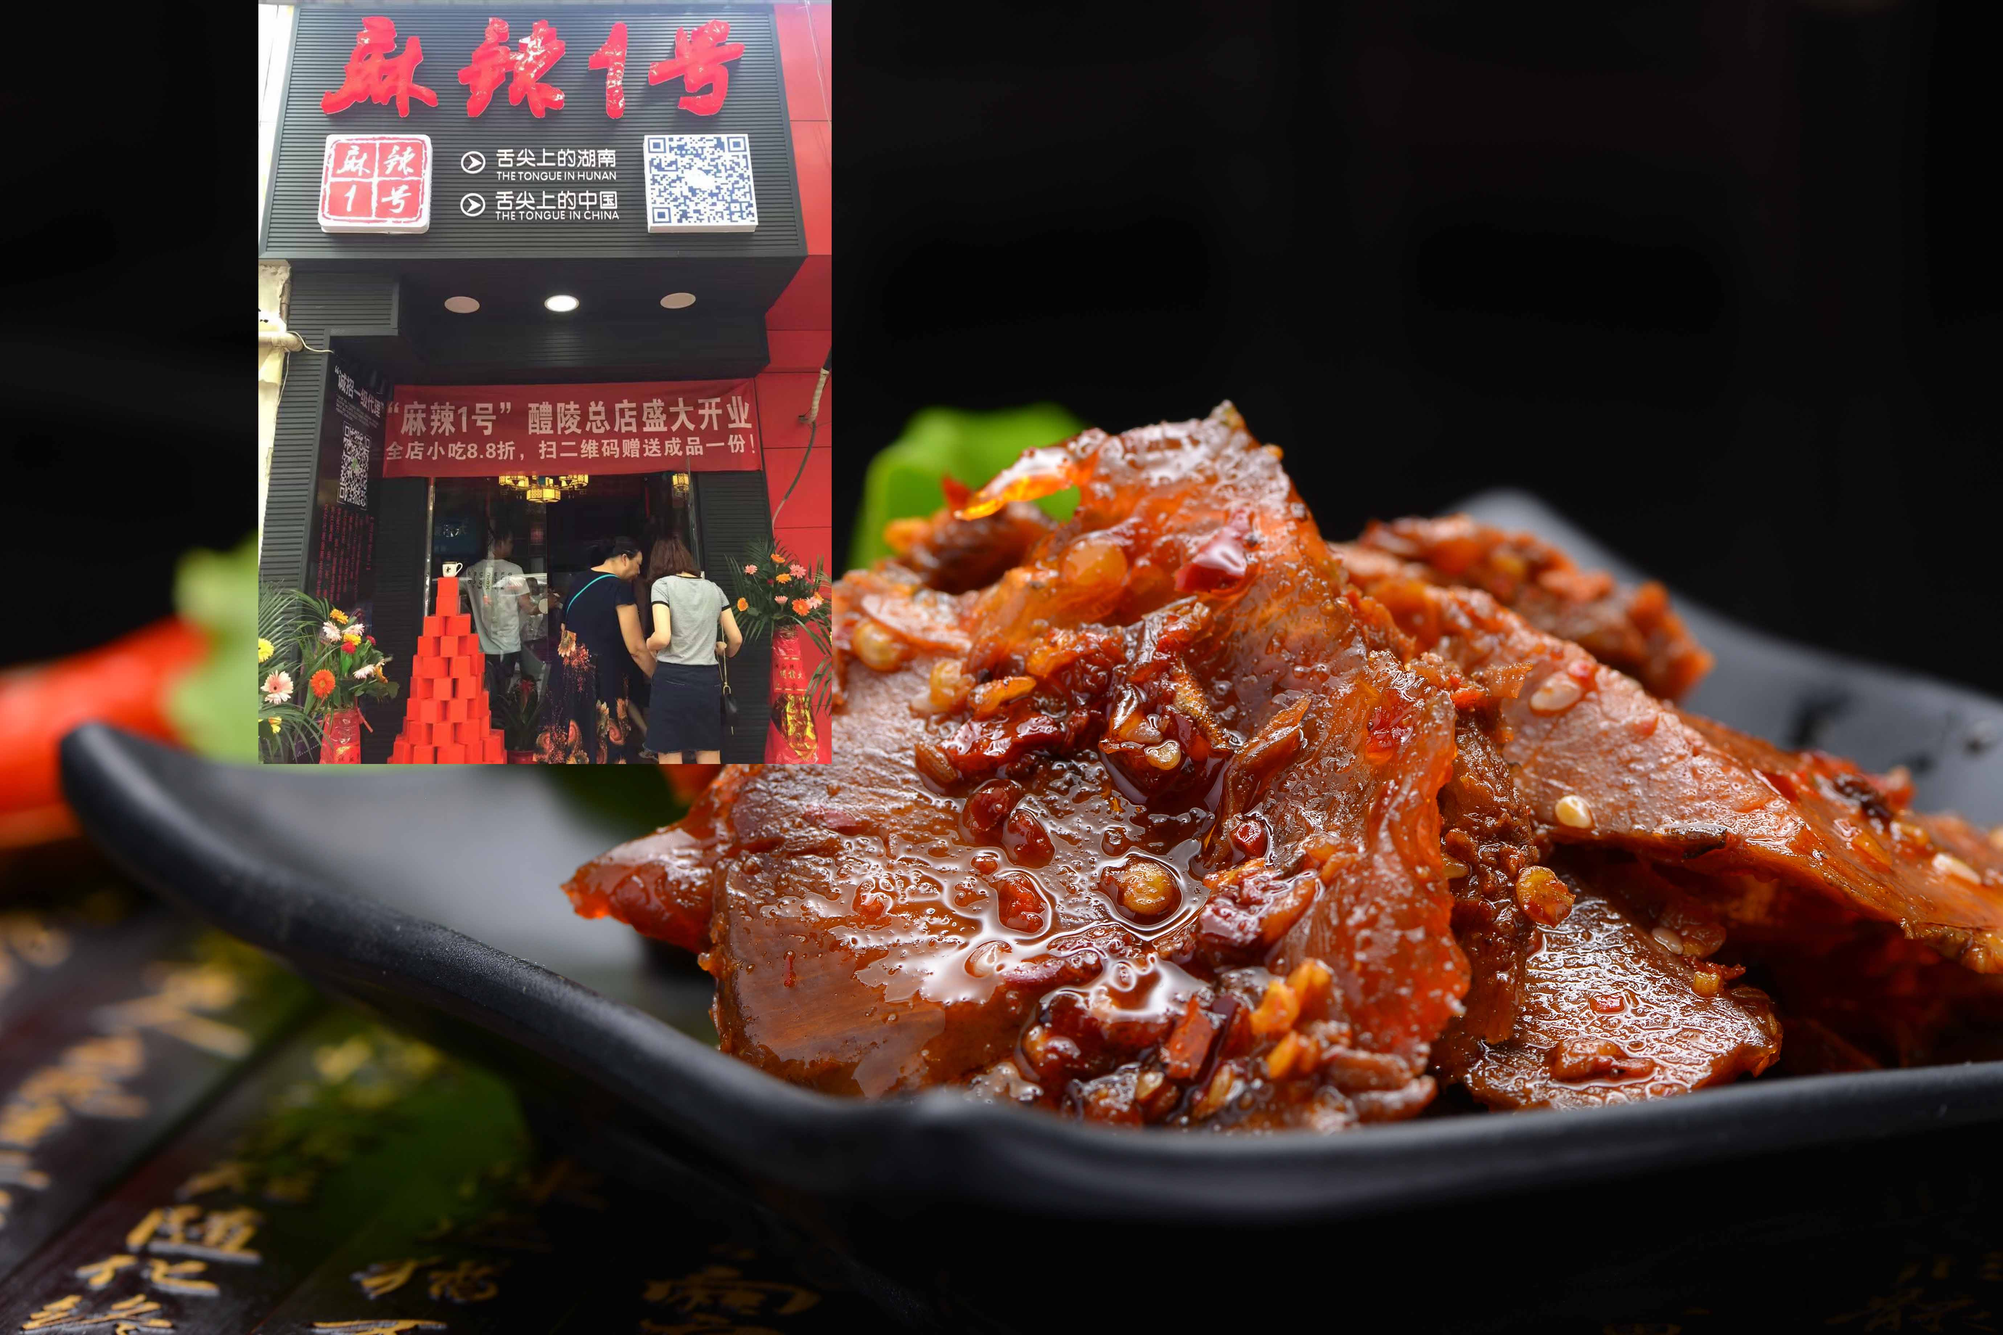
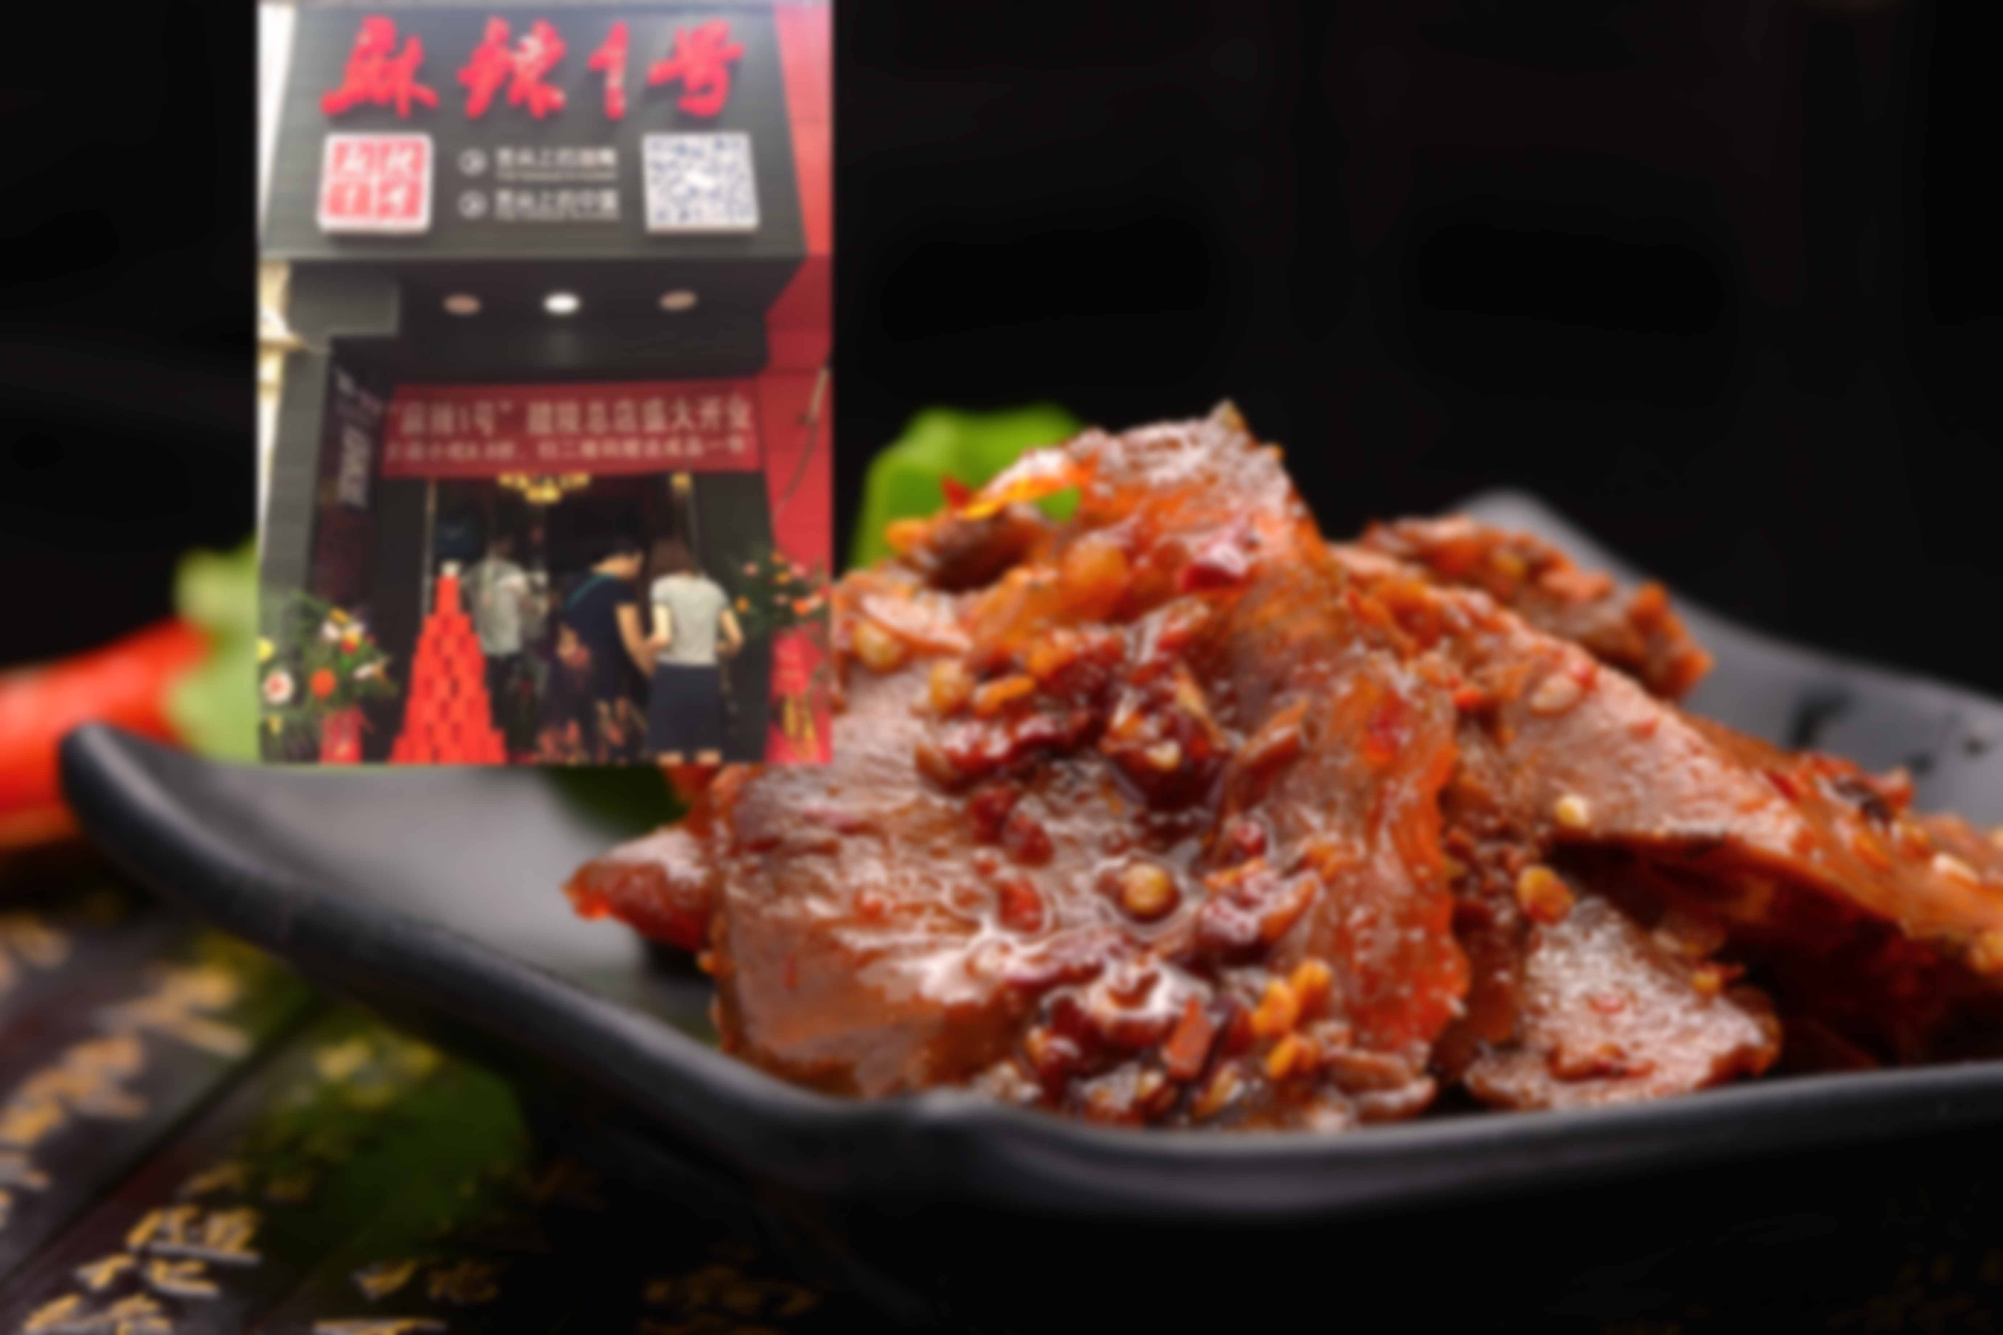
删除不必要的图片 并且 减小图片尺寸

diff --git a/jm.html b/jm.html
@@ -59,98 +59,12 @@
             </div>
             <img src="img/jm1.jpg" class="jm_img">
                 <img src="img/jm2.png" class="jm_img">
-                    <img src="img/jm3.png" class="jm_img">
-                        <img src="img/jm4.png" class="jm_img">
-                            <img src="img/jm5.png" class="jm_img">
-                                <img src="img/jm6.png" class="jm_img">
-                                    <div class="showstage7">
-                                        <form action="" method="post">
-                                            <div>
-                                                <label for="userName">姓名</label>
-                                                <input type="text" name="username" id="userName" placeholder="请输入姓名" maxlength="15" />
-                                            </div>
-                                            <div>
-                                                <label for="cellphone">手机</label>
-                                                <input type="text" name="cellphone" id="cellphone" placeholder="请输入手机号码" maxlength="11" />
-                                            </div>
-                                            <div class="clearfix" id="proBox">
-                                                <span id="dizhi">地址</span>
-                                                <select id="pro">
-                                                    <option value="0" selected >所在省</option>
-                                                </select>
-                                                <select id="city">
-                                                    <option value="0" selected >所在市</option>
-                                                </select>
-                                            </div>
-                                            <div>
-                                                <label class="label foruserId" for="userId">身份证号码</label>
-                                                <div>
-                                                    <input type="text" name="userId" id="userId" placeholder="请输入身份证号码" maxlength="18" />
-                                                </div>
-                                            </div>
-                                            <div class="clearfix">
-                                                <label class="label foruserPic" for="">身份证照片</label>
-                                                <div class="clearfix">
-                                                    <div id="idPicShowO">
-                                                        <input type="file" accept="image/*" name="idPicHeads" id="idPicHeads" />
-                                                        <div id="zhengmian">正面</div>
-                                                    </div>
-                                                    <div id="idPicShowT">
-                                                        <input type="file" accept="image/*" name="idPicTails" id="idPicTails" />
-                                                        <div id="fanmian">反面</div>
-                                                    </div>
-                                                </div>
-                                            </div>
-                                            <div class="clearfix" id="storeNum">
-                                                <label class="label formiandian" for="">是否有店面</label>
-                                                <div class="clearfix">
-                                                    <div class="clearfix istore-y">
-                                                        <span class="istore-y comselect" id="store" style="border:0;"></span>
-                                                        <span class="istore-y">是</span>
-                                                    </div>
-                                                    <div class="clearfix istore-n">
-                                                        <span class="istore-n" id="noStore"></span>
-                                                        <span class="istore-n">否</span>
-                                                    </div>
-                                                </div>
-                                            </div>
-                                            <div class="clearfix" id="StoreArea">
-                                                <label class="label" for="">经营面积</label>
-                                                <input type="text" name="acreage" id="acreage"  placeholder="请输入面积" maxlength="5" />
-                                                <div>
-                                                    <span>m</span>
-                                                    <span id="pingf">2</span>
-                                                </div>
-                                            </div>
-                                            <div id="add">
-                                                <label  class="label" for="address">门店地址</label>
-                                                <input type="text" name="address" id="address" placeholder="请输入门店地址" maxlength="50"/>
-                                            </div>
-                                            <div class="clearfix" id="addPic">
-                                                <label  class="label" for="">上传门店照片</label>
-                                                <div class="storePicShowBox">
-                                                    <div id="storePicShow">
-                                                        <span>添加照片</span>
-                                                        <input type="file" name="storePic" id="storePic"  />
-                                                    </div>
-                                                </div>
-                                            </div>
-                                            <div class="clearfix" id="buLi">
-                                                <label  class="label" for="">营业执照</label>
-                                                <div id="buLiShow" class="clearfix">
-                                                    <span>添加照片</span>
-                                                    <input type="file" name="businessLicence" id="businessLicence"  />
-                                                </div>
-                                                <br />
-                                            </div>
-                                            <div class="clearfix">
-                                                <label  class="label" for="message">留言内容</label>
-                                                <textarea name="message" id="message" placeholder="请输入留言内容"></textarea>
-                                            </div>
-                                            <div id="qu">
-                                                <div id="subMit">提交</div>
-                                            </div>
-                                        </form>
+            <img src="img/jm3.png" class="jm_img">
+            <img src="img/jm4.png" class="jm_img">
+                    <img src="img/jm5.png" class="jm_img">
+                        <img src="img/jm6.png" class="jm_img">
+                                    <div class="showstage8">
+                                        <font style="color:white;line-height=350px;font-size:60px;font-weight=bold;text-align: center;">如需加盟请联系我们 13873330466</font>
                                     </div>
         </div>
         <div class="footer">
@@ -170,7 +84,7 @@
                 <p class="title">联系我们</p>
                 <p>总部地址：湖南麻辣一号食品有限公司</p>
                 <p>电话：13873330466</p>
-                <p class="copyright">Copyright Right @ 2012-2025 mala1hao.cn Powered By 湖南麻辣一号食品有限公司</p>
+                <p class="copyright">Copyright Right @ 2012-2025 malayihao.com.cn Powered By 湖南麻辣一号食品有限公司</p>
             </div>
         </div>
         <div class="aside">

diff --git a/join.html b/join.html
@@ -90,91 +90,8 @@
 				<img src="img/meitiyunying.png">
 			</div>
 		</div>
-		<div class="showbox">
-			<p>
-				岗位职责:<br>
-1. 参与产品前期的需求调研及产品规划构思与讨论，根据产品经理要求制作设计方案；<br>
-2. 主导PC、手机web、app产品设计风格，控制相关创意工作的出品质量；<br>
-3. 设计界面原型、交互方案，并输出相关文档；<br>
-4. 根据用户反馈结果不断优化用户体验。<br>
-任职资格：<br>
-1. 具备iOS、Android平台产品的工作经验和快速学习能力，熟练掌握专业的设计和原型开发工具，如Photoshop，Axure，Visio，Illustrator等；<br>
-2. 具备优秀的逻辑思维能力，对互联网产品可用性及用户研究有深入认识；<br>
-3. 从事交互设计工作1年以上，有成功的设计作品和产品案例；<br>
-4. 良好的沟通能力和团队协作精神，能承受高强度的工作压力<br>
-5. 请随简历附上代表作品或相关链接。<br>
+		
 
-
-			</p>
-			<p>
-				岗位职责：<br>
-1. 设计所负责的产品模块的后台技术框架和实现方案；<br>
-2. 进行日常开发工作，负责产品需求的实施，遵守开发规范，保证开发质量和上线时间；<br>
-3. 解决存在的问题，提升开发效率；<br>
-4. 改进框架，基础架构，持续优化服务。<br>
-任职资格：<br>
-1.  3年以上PHP开发经验，熟练掌握PHP面向对象编程, 善于分析业务需求并融入对象设计；<br>
-2. 熟悉中大型 LNMP 技术栈，有分布式存储和缓存设计和使用经验；<br>
-3. 熟练使用Yii/CI等一种或多种PHP开发框架；良好的MySQL存储、索引设计和SQL查询优化经验<br>
-4. 有海量数据、高并发、业务复杂型互联网产品经验者优先；<br>
-5. 对数据产品开发有浓厚兴趣者，责任心强、学习能力强者优先<br>
-
-
-			</p>
-			<p>
-				岗位职责：<br>
-1. 负责互联网自媒体平台（微信、微博、贴吧等）的日常运营及推广工作，提供优质、有趣、好玩的传播性内容、规划，力求平台的互通及用户导流工作；<br>
-2. 配合公司/品牌整体营销规划执行相关线上线下推广、策划活动；<br>
-3. 分析平台运营数据，在数据指导下有目的性的优化其运营手段，提高增粉速度及质量，增加用户黏性及分享欲望；<br>
-4. 收集用户反馈，分析用户行为及需求，可提出建设性意见和创新型想法；<br>
-任职资格：<br>
-1.大专以上学历，专业不限，传播、营销类专业优先；<br>
-2.热爱新媒体行业和自媒体运营，对微信、微博等平台较为熟悉，对移动互联网发展潮流高度关注，思维活跃、有创意；<br>
-3. 有自媒体运营经验，嗅觉敏锐，对行业动态敏感；<br>
-4. 对工作极具热情，积极主动，创造性包容性俱佳，具备团队精神<br>
-5. 学习能力强，工作踏实；<br>
-			</p>
-		</div>
-		<div class="showbox">
-			<div class="show">
-				<img src="img/meijie.png">
-			</div>
-			<div class="show">
-				<img src="img/pingmian.png">
-			</div>
-		</div>
-		<div class="showbox">
-			<p>
-				岗位职责：<br>
-1．与互联网媒体保持良好的沟通，有效地开发、维护网站、社区、意见领袖博客关系；<br>
-2．梳理媒介投放管理体系，包括但不限于投放价格、广告价值、资源等级、成本控制；<br>
-3．项目的跟踪反馈，提供媒体监测报告及传播效果评估；<br>
-4．互联网媒体的信息与动态的收集、整理、分析，总结互联网营销规律和模式；<br>
-5．基于与相关媒体资源的有效沟通，提供可执行的有商业营销价值的创新型公关建议。<br>
-任职资格：<br>
-1．本科以上学历，1-2年新媒体传播经验；<br>
-2．有较好的网络媒体资源，熟练运用新媒体传播；<br>
-3．熟悉媒体运作规律，掌握各个媒体的合作特点，了解媒介市场行情，了解广告业务操作流程；<br>
-4.  富有团队精神，良好的协调沟通能力，善于处理人际关系；<br>
-5.  性格开朗，工作认真，责任心强；<br>
-			</p>
-			<p>
-				岗位职责：<br>
-1.视觉内容的创意制作（海报、长图、动图、H5等）；<br>
-2. 能够协助策划部门或独立产出活动创意、亮点结合创意内容。<br>
-职位要求：<br>
-1. 良好的平面设计功底和视觉创意及审美能力；<br>
-2. 熟练运用photoshop, illustrator, indesign等工具软件；<br>
-3. 理解力及沟通能力强，认真负责；<br>
-4. 有网感、有创意、脑洞大，微博微信等社交媒体深度用户优先；<br>
-5. 本科以上学历，有相关领域工作经验优先。<br>
-			</p>
-		</div>
-
-
-		<div class="jianli">简历请直接发送到: 1240600938@qq.com</div>
-	</div>
-</div>
 <div class="footer">
     <div class="footer_content">
         <p class="title">客服热线</p>
@@ -192,7 +109,7 @@
         <p class="title">联系我们</p>
         <p>总部地址：湖南省株洲市芦淞区新华西路999号王府井B座1608室</p>
         <p>电话：13873330466</p>
-        <p class="copyright">Copyright Right @ 2012-2025 mala1hao.cn Powered By 湖南麻辣一号食品有限公司</p>
+        <p class="copyright">Copyright Right @ 2012-2025 malayihao.com.cn Powered By 湖南麻辣一号食品有限公司</p>
     </div>
 </div>
 

diff --git a/headline.html b/headline.html
@@ -10,7 +10,7 @@
 <meta name="format-detection" content="telephone=no, address=no">
 <meta http-equiv="pragma" content="no-cache">
 <meta http-equiv="cache-control" content="no-cache">
-<title>麻辣味头条</title>
+<title>麻辣1号头条</title>
 <link rel="stylesheet" type="text/css" href="css/jw.css">
 </head>
 <body>
@@ -64,13 +64,13 @@
 	<div class="headline">
 		<div class="left">
 			<a href="jm.html">
-				<img src="img/headline_1.png">
+				<img src="img/banner01.jpg">
 			</a>
 		</div>
 		<div class="right">
-			<div class="title2" style="margin-top:20px;">小小鸭脖店 年入近百万</div>
+			<div class="title2" style="margin-top:20px;">小小麻辣1号店 年入近百万</div>
 			<div class="title3" style="margin-left:22px;"><span style="font-weight:bold;">时间:&nbsp;&nbsp;</span>2015年8月1日</div>
-			<div class="content" style="margin-left:22px;"><div style="font-weight:bold;color:#333;float:left;">摘要:&nbsp;&nbsp;</div><div>麻辣1号日均销量超100万根，单店营业额100万/年，麻辣味鸭脖采用德国技术，20道工序只为一根鸭，产品种类齐全，加盟后总部一站式指导，流程化管理让你做当甩手掌柜...</div></div>
+			<div class="content" style="margin-left:22px;"><div style="font-weight:bold;color:#333;float:left;">摘要:&nbsp;&nbsp;</div><div>麻辣1号日均销量超100万，单店营业额100万/年，麻辣味鸭脖采用德国技术，20道工序只为一根鸭，产品种类齐全，加盟后总部一站式指导，流程化管理让你做当甩手掌柜...</div></div>
 			<div class="btn">
 				<a href="jm.html">查看详情</a>
 			</div>
@@ -94,7 +94,7 @@
 		<p class="title">联系我们</p>
 		<p>总部地址：湖南省株洲市芦淞区新华西路999号王府井B座1608室</p>
 		<p>电话：13873330466</p>
-		<p class="copyright">Copyright Right @ 2012-2025 jueiwei.cn Powered By 湖南麻辣一号食品有限公司</p>
+		<p class="copyright">Copyright Right @ 2012-2025 malayihao.com.cn Powered By 湖南麻辣一号食品有限公司</p>
 	</div>
 </div>
 

diff --git a/service.html b/service.html
@@ -65,7 +65,7 @@
         </div>
         <div class="body">
             <div class="map_box">
-                <img src="img/map_box.png" style="width:100%;">
+                <img src="img/map_box.jpg" style="width:100%;">
                     <div class="select_box">
                         <img src="img/find_icon.png" style="margin:0 auto;    width: 50px;">
                             <div style="font-size:50px;color:#fff;text-align:center;margin-top:30px;">寻找麻辣一号</div>
@@ -123,7 +123,7 @@
                 <p class="title">联系我们</p>
                 <p>总部地址：湖南省株洲市芦淞区新华西路999号王府井B座1608室</p>
                 <p>电话：13873330466</p>
-                <p class="copyright">Copyright Right @ 2012-2025 mala1hao.cn Powered By 湖南麻辣一号食品有限公司</p>
+                <p class="copyright">Copyright Right @ 2012-2025 malayihao.com.cn Powered By 湖南麻辣一号食品有限公司</p>
             </div>
         </div>
         

diff --git a/css/jw.css b/css/jw.css
@@ -1071,6 +1071,11 @@ input, textarea {
 	background: #da230f;
 		padding-bottom: 50px;
 }
+.showstage8 {
+	background: #da230f;
+		padding-bottom: 50px;
+		text-align:center;
+}
 .des_title {
 	font-size: 20px;
 	font-weight: bold;
